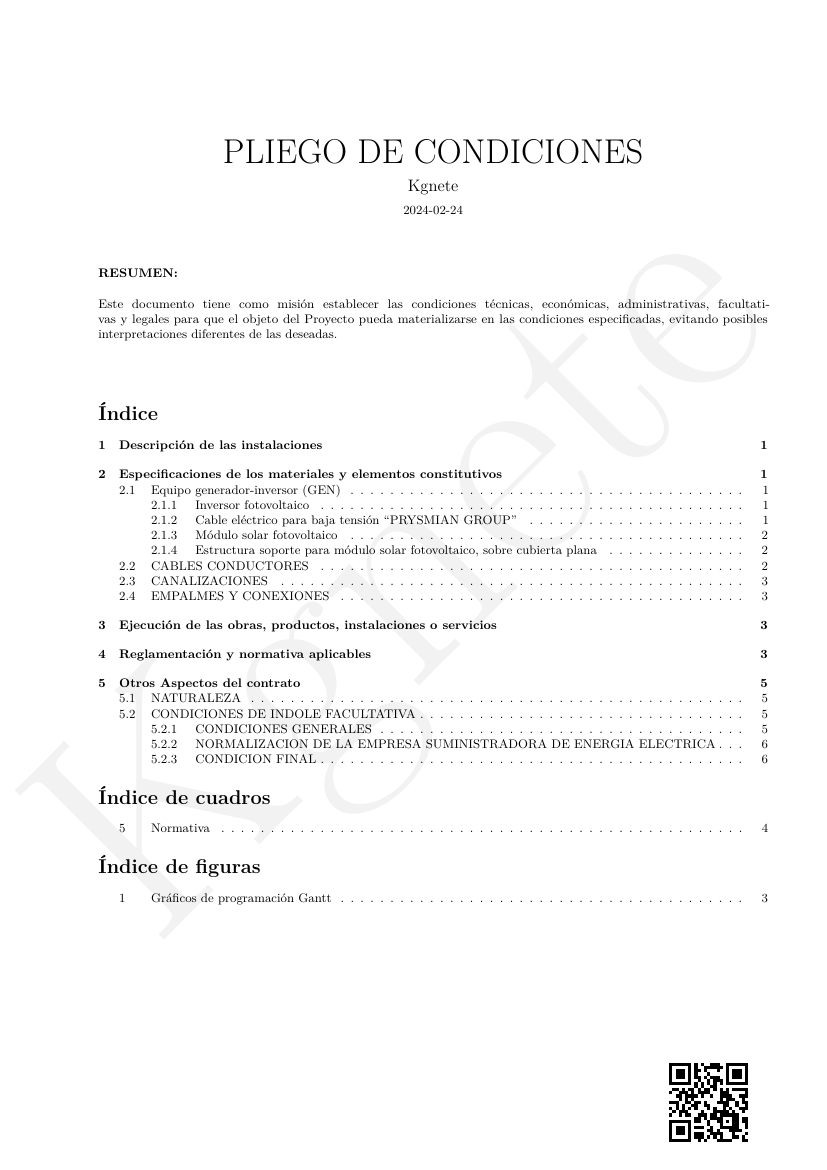
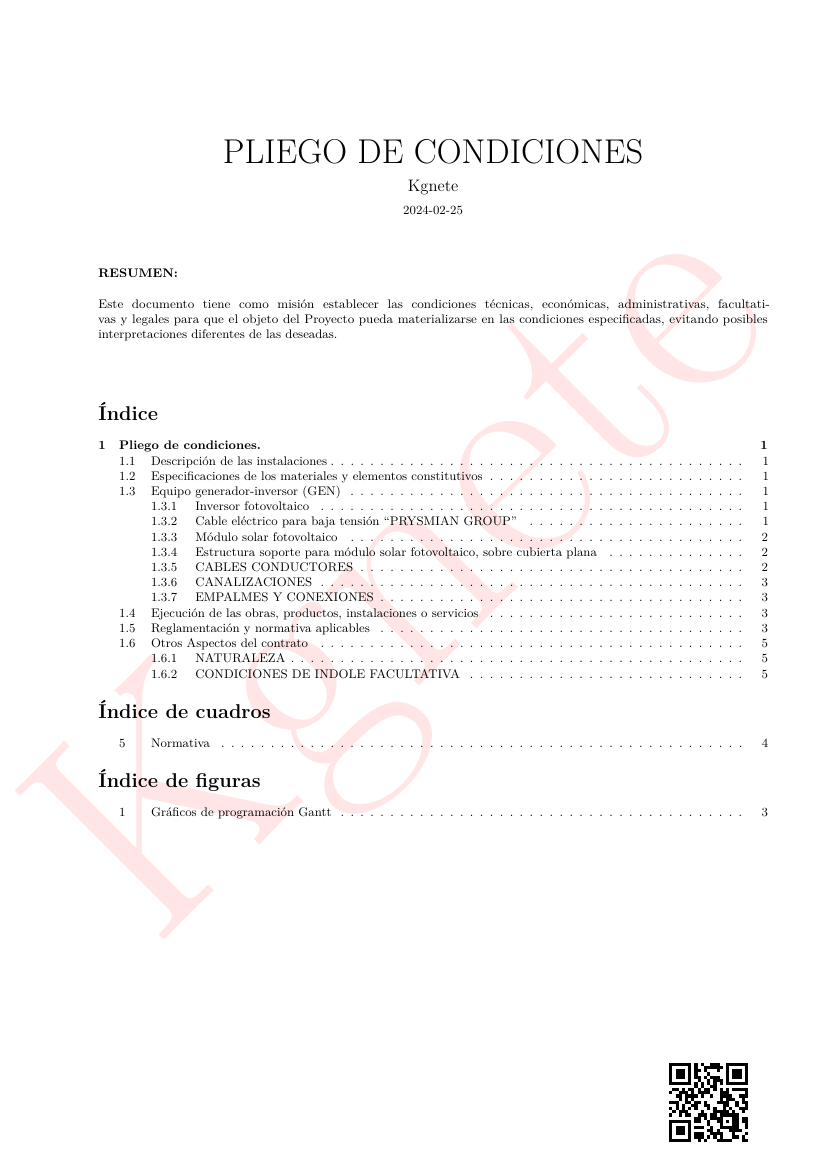
rr dom 25 feb 2024 17:08:23 CET

diff --git a/xxx.py b/xxx.py
@@ -33,7 +33,7 @@ def obtener_archivos_con_rutas(directorio):
     carpetas = [nombre for nombre in os.listdir(directorio) if os.path.isdir(os.path.join(directorio, nombre))]
     archivos=[]
     for carpeta in carpetas:
-        archivos.append(glob.glob(os.path.join(directorio, carpeta, "*zRES*")))
+        archivos.append(glob.glob(os.path.join(directorio, carpeta, "*pdf*")))
     archivos = [elemento for sublista in archivos for elemento in sublista if elemento]
 
 
@@ -130,7 +130,9 @@ if __name__ == "__main__":
             os.mkdir(carpeta_destino)
                     
         if 1:
-            directorios= ["/home/pk/Desktop/pdfs/md2pdf/Proyectos/Fotovoltaica"]
+            directorios= [
+                "/home/pk/Desktop/pdfs/md2pdf/Proyectos/INSTALACION FOTOVOLTAICA/01.PROYECTO",
+                "/home/pk/Desktop/pdfs/md2pdf/Proyectos/INSTALACION FOTOVOLTAICA/02.ANEXOS",]
 
             for directorio in directorios:
                 o.files, o.nombres, o.listaCategorias, o.fechas = obtener_archivos_con_rutas(directorio)

diff --git a/docs/blog/posts/06.Estudio Basico de Seguridad.md b/docs/blog/posts/06.Estudio Basico de Seguridad.md
@@ -1,0 +1,20 @@
+---
+date: 2024-02-24
+authors:
+  - Fotovoltaica
+categories:
+  - 02.ANEXOS
+
+---
+#
+![](06.Estudio Basico de Seguridad/pagina_1.png)
+![](06.Estudio Basico de Seguridad/pagina_2.png)
+![](06.Estudio Basico de Seguridad/pagina_3.png)
+![](06.Estudio Basico de Seguridad/pagina_4.png)
+![](06.Estudio Basico de Seguridad/pagina_5.png)
+![](06.Estudio Basico de Seguridad/pagina_6.png)
+![](06.Estudio Basico de Seguridad/pagina_7.png)
+![](06.Estudio Basico de Seguridad/pagina_8.png)
+![](06.Estudio Basico de Seguridad/pagina_9.png)
+![](06.Estudio Basico de Seguridad/pagina_10.png)
+

diff --git a/docs/blog/posts/02.Calculo dela energia generada.md b/docs/blog/posts/02.Calculo dela energia generada.md
@@ -1,0 +1,15 @@
+---
+date: 2024-02-25
+authors:
+  - Fotovoltaica
+categories:
+  - 02.ANEXOS
+
+---
+#
+![](02.Calculo dela energia generada/pagina_1.png)
+![](02.Calculo dela energia generada/pagina_2.png)
+![](02.Calculo dela energia generada/pagina_3.png)
+![](02.Calculo dela energia generada/pagina_4.png)
+![](02.Calculo dela energia generada/pagina_5.png)
+

diff --git a/docs/blog/posts/06.MEDICIONES.md b/docs/blog/posts/06.MEDICIONES.md
@@ -1,9 +1,9 @@
 ---
-date: 2024-02-24
+date: 2024-02-25
 authors:
   - Fotovoltaica
 categories:
-  - Fotovoltaica
+  - 01.PROYECTO
 
 ---
 #
@@ -12,5 +12,4 @@ categories:
 ![](06.MEDICIONES/pagina_3.png)
 ![](06.MEDICIONES/pagina_4.png)
 ![](06.MEDICIONES/pagina_5.png)
-![](06.MEDICIONES/pagina_6.png)
 

diff --git a/docs/blog/posts/02.MEMORIA.md b/docs/blog/posts/02.MEMORIA.md
@@ -1,9 +1,9 @@
 ---
-date: 2024-02-24
+date: 2024-02-25
 authors:
   - Fotovoltaica
 categories:
-  - Fotovoltaica
+  - 01.PROYECTO
 
 ---
 #
@@ -16,5 +16,4 @@ categories:
 ![](02.MEMORIA/pagina_7.png)
 ![](02.MEMORIA/pagina_8.png)
 ![](02.MEMORIA/pagina_9.png)
-![](02.MEMORIA/pagina_10.png)
 

diff --git a/docs/blog/posts/04.Gestion de residuos.md b/docs/blog/posts/04.Gestion de residuos.md
@@ -1,0 +1,13 @@
+---
+date: 2024-02-24
+authors:
+  - Fotovoltaica
+categories:
+  - 02.ANEXOS
+
+---
+#
+![](04.Gestion de residuos/pagina_1.png)
+![](04.Gestion de residuos/pagina_2.png)
+![](04.Gestion de residuos/pagina_3.png)
+

diff --git a/docs/blog/posts/01.INICIO.md b/docs/blog/posts/01.INICIO.md
@@ -1,0 +1,14 @@
+---
+date: 2024-02-25
+authors:
+  - Fotovoltaica
+categories:
+  - 01.PROYECTO
+
+---
+#
+![](01.INICIO/pagina_1.png)
+![](01.INICIO/pagina_2.png)
+![](01.INICIO/pagina_3.png)
+![](01.INICIO/pagina_4.png)
+

diff --git a/docs/blog/posts/05.PLIEGO DE CONDICIONES.md b/docs/blog/posts/05.PLIEGO DE CONDICIONES.md
@@ -1,9 +1,9 @@
 ---
-date: 2024-02-24
+date: 2024-02-25
 authors:
   - Fotovoltaica
 categories:
-  - Fotovoltaica
+  - 01.PROYECTO
 
 ---
 #

diff --git a/docs/blog/posts/07.PRESUPUESTO.md b/docs/blog/posts/07.PRESUPUESTO.md
@@ -1,9 +1,9 @@
 ---
-date: 2024-02-24
+date: 2024-02-25
 authors:
   - Fotovoltaica
 categories:
-  - Fotovoltaica
+  - 01.PROYECTO
 
 ---
 #

diff --git a/docs/blog/posts/.zz.md b/docs/blog/posts/.zz.md
@@ -3,7 +3,7 @@ date: 2024-02-24
 authors:
   - Fotovoltaica
 categories:
-  - Fotovoltaica
+  - 01.PROYECTO
 
 ---
 #
